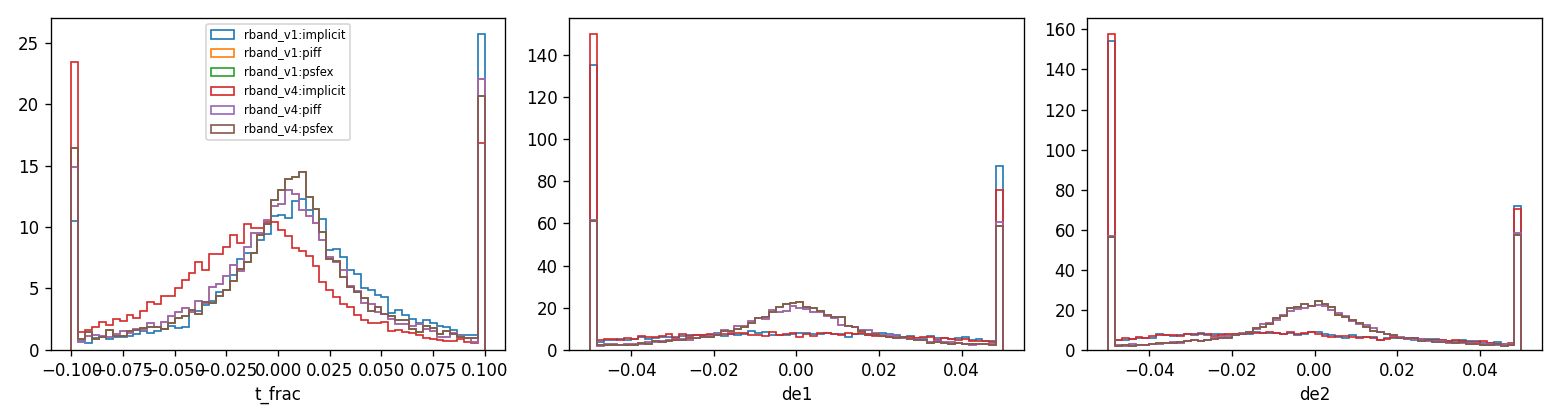
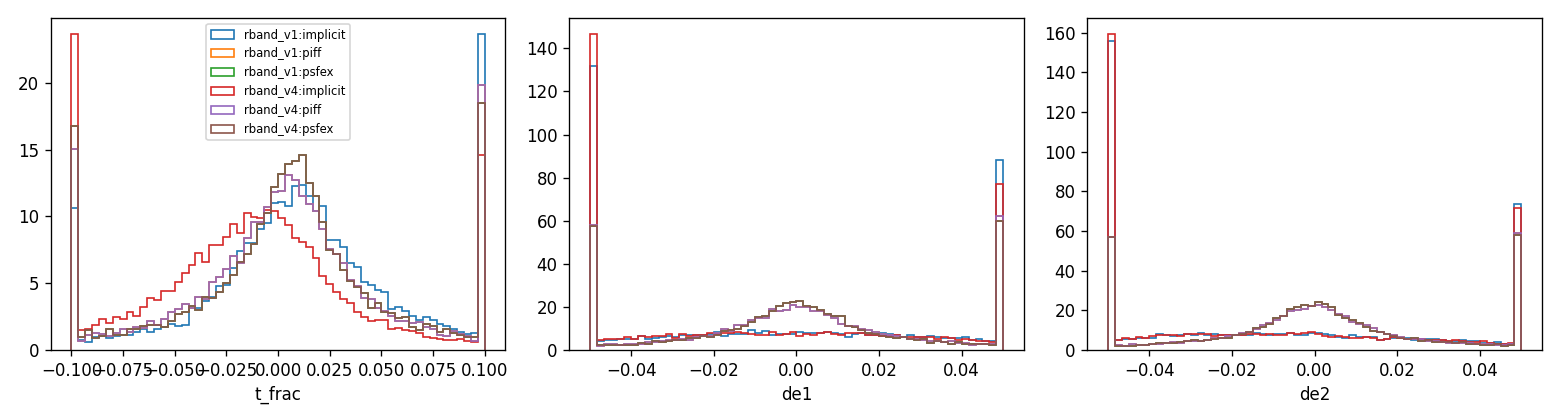
corrected r-band comparison (valid-pixel moments) + corrected C2 result
Well-measured stars: baselines' ellipticity correlations reach ~0.8 (targets
are recoverable); our v4-arch 27-epoch checkpoint shows corr(e2) ~ 0.04 — the
e2 weakness transfers from sim exactly. |de| gap 0.054 vs 0.020 (2.7x).
C2-real unchanged by the correction: [phone redacted]/mag [[phone redacted], [phone redacted]].

diff --git a/results/real_rband_report/REPORT.md b/results/real_rband_report/REPORT.md
@@ -1,50 +1,32 @@
-# First real-data comparison — DES r-band test split (June 11)
-
-683 frozen test exposures, ~17,600 reserved stars per method; all methods fit/attend on
-identical non-reserved clean stars and are scored on identical reserved stars.
-
-**Headline: an amortized model with no per-exposure fitting reaches statistical parity with
-PIFF on size accuracy and pixel-level fit quality on real DES data.**
-
-- Paired per-exposure mean |dT/T| vs PIFF: **-0.0013 [-0.0068, +0.0030]** (v4 arch) and
-  -0.0039 [-0.0094, +0.0004] (v1 arch) — both consistent with zero; PSFEx: -0.0041.
-- chi2/dof: ImplicitPSF 1.077 | PIFF 1.087 | PSFEx 1.059 — three-way pixel-level parity.
-- Size scatter: 0.038-0.042 (implicit) vs 0.037 (piff), 0.034 (psfex).
-- Remaining gaps: ellipticity (|de| scatter 0.042 vs 0.028 — a 1.5x gap; both real
-  implicit checkpoints are ~27-epoch early-stops, and the sim ladder showed e-components
-  converge late) and a ~1% size bias with sign depending on architecture.
-- Next levers already in flight: polar (v5) architecture on real r-band with a longer
-  schedule; all-band models; real zero-color pair for the C2-on-real test.
-
 # PSF model comparison report
 
 ## Reserved-star metrics (per run and method)
 
 | run      | method   |   n_stars |   n_exposures |   t_frac_median |   t_frac_scatter |   de1_median |   de2_median |   de_scatter |   chi2_median |
 |:---------|:---------|----------:|--------------:|----------------:|-----------------:|-------------:|-------------:|-------------:|--------------:|
-| rband_v1 | implicit |     17607 |           683 |         0.01081 |          0.03827 |     -0.00554 |     -0.01411 |      0.04155 |       1.07582 |
-| rband_v1 | piff     |     17597 |           683 |         0.00464 |          0.03697 |      0.00020 |      0.00000 |      0.02774 |       1.08725 |
-| rband_v1 | psfex    |     17607 |           683 |         0.00631 |          0.03445 |      0.00017 |     -0.00016 |      0.02719 |       1.05932 |
-| rband_v4 | implicit |     17607 |           683 |        -0.01161 |          0.04212 |     -0.01006 |     -0.01516 |      0.04204 |       1.07718 |
-| rband_v4 | piff     |     17597 |           683 |         0.00464 |          0.03697 |      0.00020 |      0.00000 |      0.02774 |       1.08725 |
-| rband_v4 | psfex    |     17607 |           683 |         0.00631 |          0.03445 |      0.00017 |     -0.00016 |      0.02719 |       1.05932 |
+| rband_v1 | implicit |     17628 |           683 |         0.01050 |          0.03787 |     -0.00495 |     -0.01426 |      0.04120 |       1.07573 |
+| rband_v1 | piff     |     17618 |           683 |         0.00438 |          0.03660 |      0.00039 |     -0.00001 |      0.02744 |       1.08715 |
+| rband_v1 | psfex    |     17628 |           683 |         0.00597 |          0.03397 |      0.00033 |     -0.00016 |      0.02696 |       1.05920 |
+| rband_v4 | implicit |     17628 |           683 |        -0.01214 |          0.04176 |     -0.00942 |     -0.01540 |      0.04168 |       1.07714 |
+| rband_v4 | piff     |     17618 |           683 |         0.00438 |          0.03660 |      0.00039 |     -0.00001 |      0.02744 |       1.08715 |
+| rband_v4 | psfex    |     17628 |           683 |         0.00597 |          0.03397 |      0.00033 |     -0.00016 |      0.02696 |       1.05920 |
 
 ## Paired differences vs PIFF (bootstrap over exposures, 95% CI)
 
 | run      | method   | metric               |   difference |    ci_low |   ci_high |   n_exposures |
 |:---------|:---------|:---------------------|-------------:|----------:|----------:|--------------:|
-| rband_v1 | implicit | mean |t_frac| - piff |    -0.003892 | -0.009352 |  0.000387 |           683 |
-| rband_v1 | psfex    | mean |t_frac| - piff |    -0.004147 | -0.009472 | -0.000195 |           683 |
-| rband_v4 | implicit | mean |t_frac| - piff |    -0.001308 | -0.006795 |  0.002971 |           683 |
-| rband_v4 | psfex    | mean |t_frac| - piff |    -0.004147 | -0.009502 | -0.000076 |           683 |
-| rband_v1 | implicit | mean |de1| - piff    |     0.015532 |  0.013730 |  0.017404 |           683 |
-| rband_v1 | psfex    | mean |de1| - piff    |    -0.001707 | -0.002554 | -0.001084 |           683 |
-| rband_v4 | implicit | mean |de1| - piff    |     0.016492 |  0.014573 |  0.018577 |           683 |
-| rband_v4 | psfex    | mean |de1| - piff    |    -0.001707 | -0.002522 | -0.001090 |           683 |
-| rband_v1 | implicit | mean |de2| - piff    |     0.017285 |  0.015495 |  0.019195 |           683 |
-| rband_v1 | psfex    | mean |de2| - piff    |    -0.001090 | -0.001900 | -0.000505 |           683 |
-| rband_v4 | implicit | mean |de2| - piff    |     0.017426 |  0.015584 |  0.019153 |           683 |
-| rband_v4 | psfex    | mean |de2| - piff    |    -0.001090 | -0.001857 | -0.000510 |           683 |
+| rband_v1 | implicit | mean |t_frac| - piff |    -0.003866 | -0.009011 |  0.000100 |           683 |
+| rband_v1 | psfex    | mean |t_frac| - piff |    -0.003482 | -0.008587 |  0.000371 |           683 |
+| rband_v4 | implicit | mean |t_frac| - piff |    -0.001290 | -0.006598 |  0.002788 |           683 |
+| rband_v4 | psfex    | mean |t_frac| - piff |    -0.003482 | -0.008732 |  0.000511 |           683 |
+| rband_v1 | implicit | mean |de1| - piff    |     0.015597 |  0.013822 |  0.017459 |           683 |
+| rband_v1 | psfex    | mean |de1| - piff    |    -0.001661 | -0.002508 | -0.001037 |           683 |
+| rband_v4 | implicit | mean |de1| - piff    |     0.016515 |  0.014621 |  0.018526 |           683 |
+| rband_v4 | psfex    | mean |de1| - piff    |    -0.001661 | -0.002488 | -0.001045 |           683 |
+| rband_v1 | implicit | mean |de2| - piff    |     0.017627 |  0.015834 |  0.019518 |           683 |
+| rband_v1 | psfex    | mean |de2| - piff    |    -0.001062 | -0.001890 | -0.000485 |           683 |
+| rband_v4 | implicit | mean |de2| - piff    |     0.017767 |  0.015910 |  0.019523 |           683 |
+| rband_v4 | psfex    | mean |de2| - piff    |    -0.001062 | -0.001822 | -0.000492 |           683 |
 
 ![residuals](residual_histograms.png)
 ![spatial](spatial_t_frac.png)